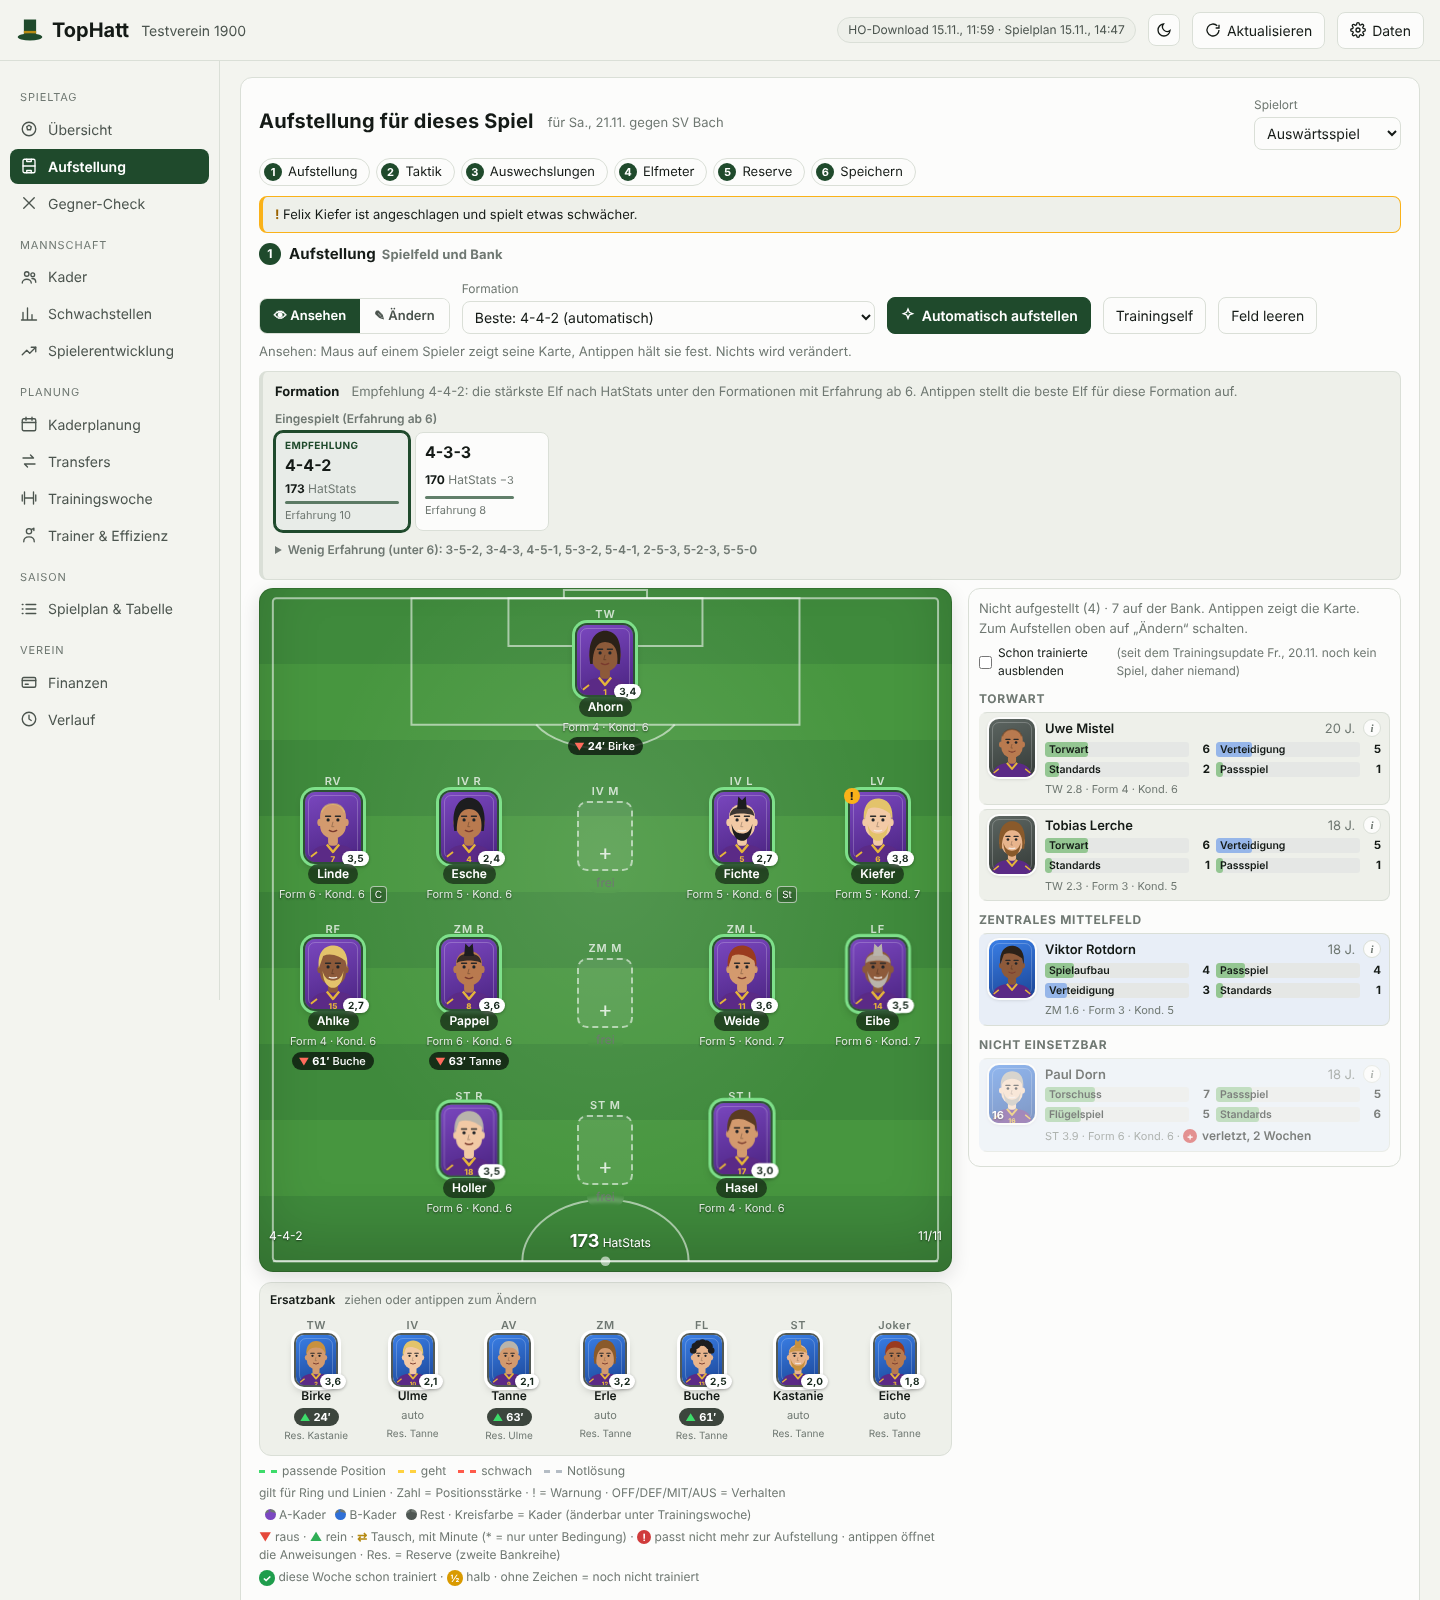
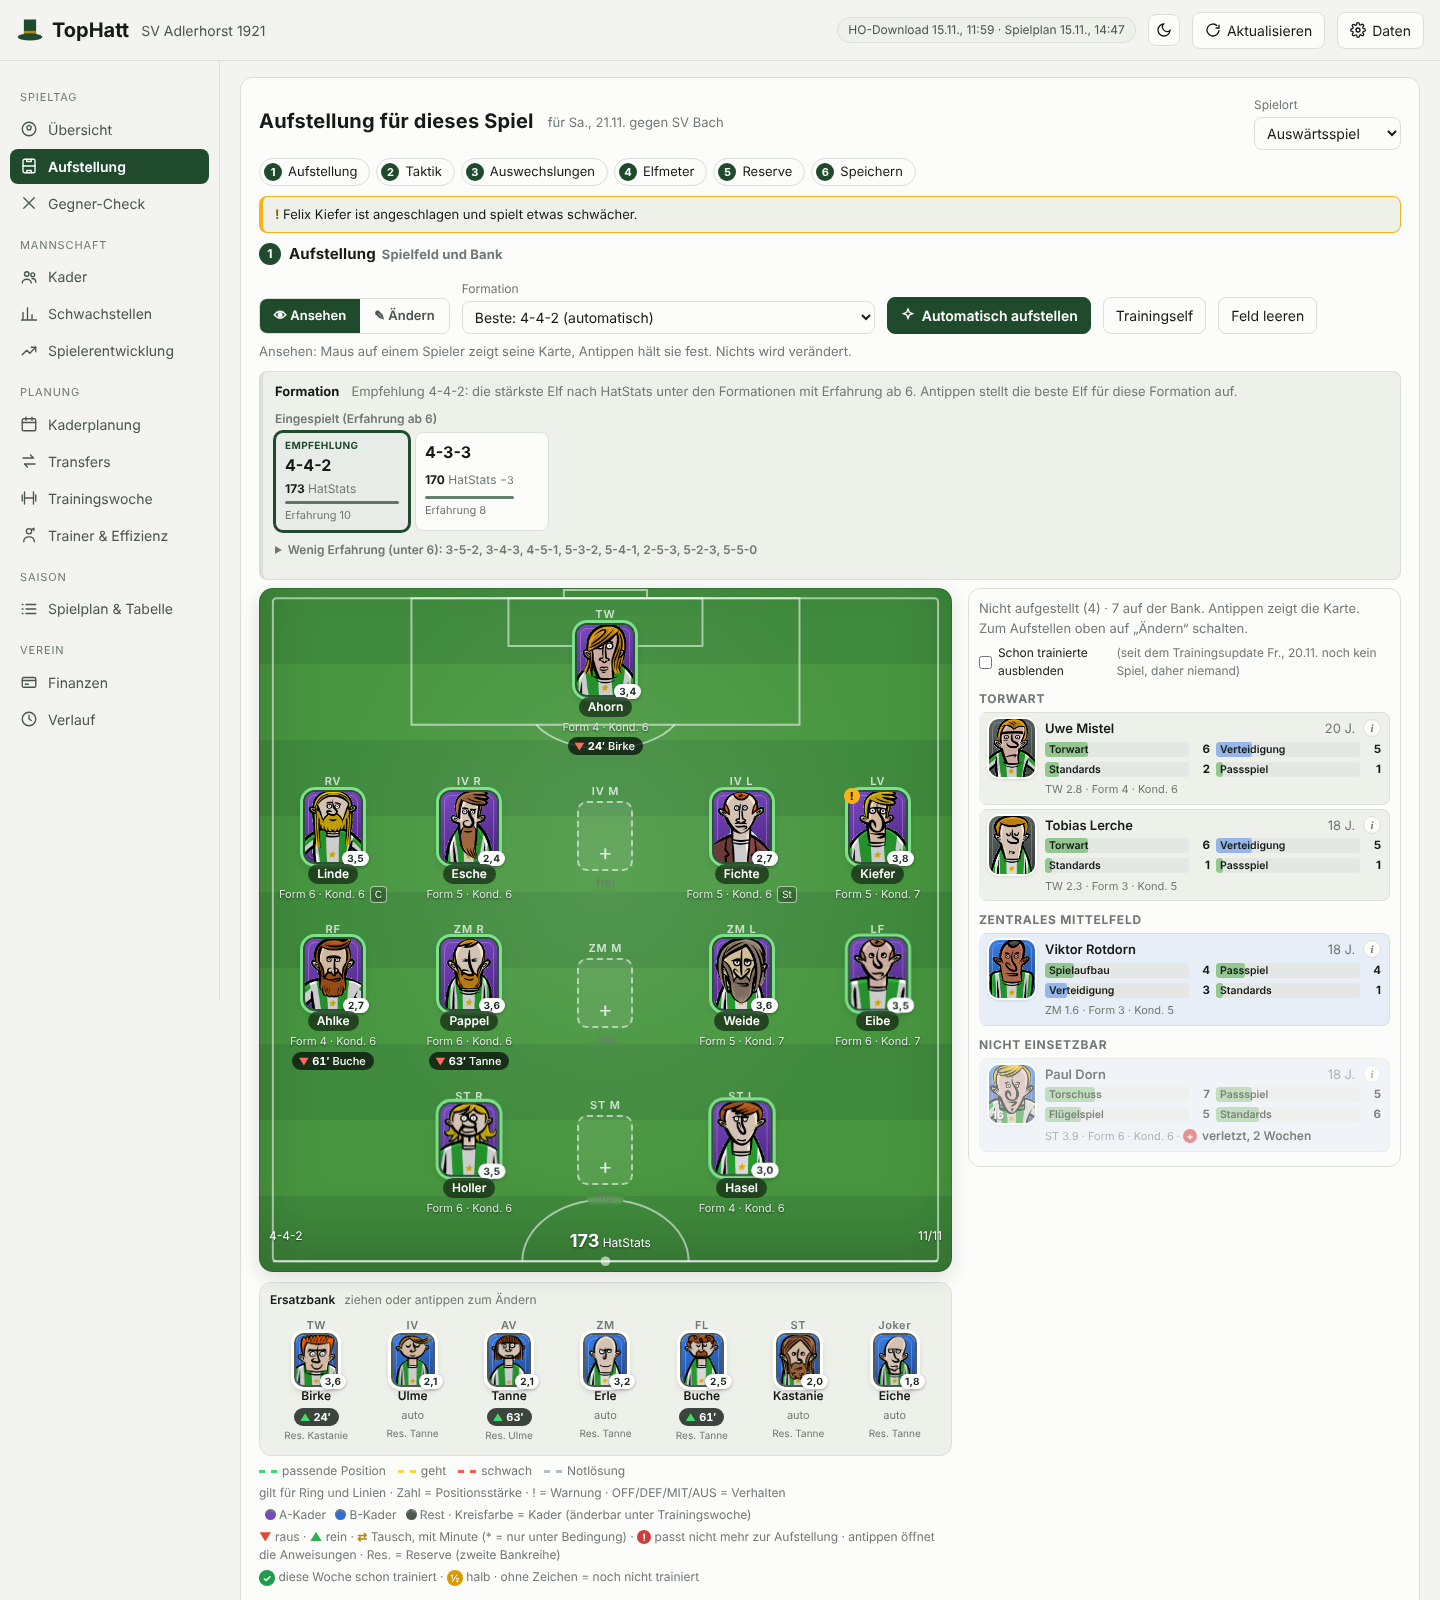
Screenshots mit HO-Spielerbildern und erfundenem Vereinsnamen
Claude-Session: https://claude.ai/code/session_017UJwfi2vN3mNPzMvawvhfC

diff --git a/README.md b/README.md
@@ -6,7 +6,7 @@ das Ergebnis als HRF-Datei zurück, die HO zu Hattrick hochlädt. Alles läuft l
 
 ![Aufstellungsseite mit Spielfeld, Formationsvorschlag, Spielerkarten und Ersatzbank](docs/img/aufstellung.png)
 
-<sub>Alle Screenshots zeigen den anonymisierten Testverein aus `test/fixtures` mit den eigenen TopHatt-Spielerbildern.</sub>
+<sub>Die Screenshots zeigen einen erfundenen Verein mit erfundenen Spielern und Werten; die Spielerbilder sind Hattrick-Avatare aus HO.</sub>
 
 ## Was TopHatt kann
 
@@ -107,7 +107,8 @@ jar cfe sync/TopHattSync.jar TopHattSync -C sync/build .
 ```
 
 Zum Ausprobieren ohne eigene HO-Daten `dist/tophatt.html` öffnen und `test/fixtures/team.hrf` zusammen mit
-`test/fixtures/tophatt-data.json` ins Fenster ziehen. So sind auch die Screenshots in `docs/img` entstanden.
+`test/fixtures/tophatt-data.json` ins Fenster ziehen. Auf diesen Daten beruhen auch die Screenshots in `docs/img`
+(Vereinsname geändert, Spielerbilder ergänzt).
 
 ## Lizenz
 
